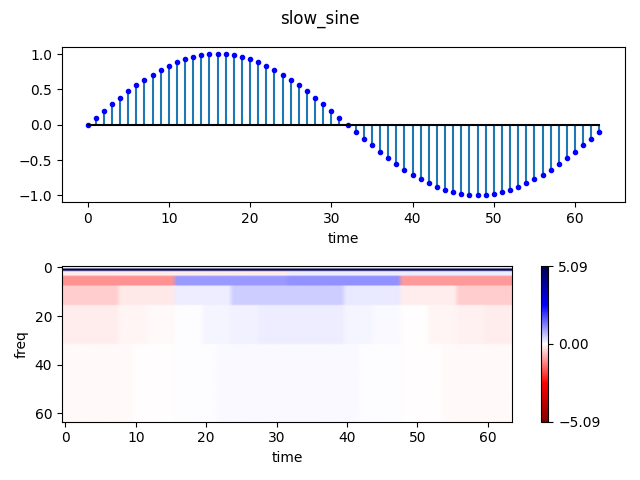
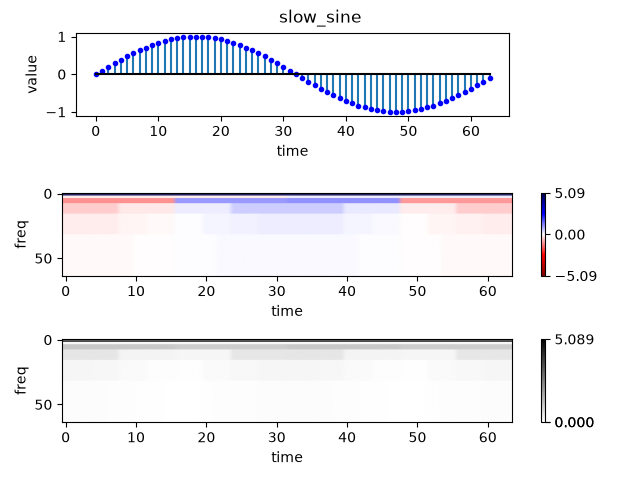
new combined plotting format

diff --git a/scalogram.py b/scalogram.py
@@ -14,6 +14,7 @@ import click
 import pywt
 import os
 import os.path
+from mpl_toolkits.axes_grid1.inset_locator import inset_axes
 
 
 def add_rectangle(a, t1, t2, f1,f2,v):
@@ -85,12 +86,12 @@ def plot_scalogram(ax:plt.Axes, v:list[float], abs_flag:bool)->None:
                    vmin=vmin,
                    vmax=vmax)
     cb = plt.colorbar(im)
+    # cb = plt.colorbar(im, location='bottom')
+    # cb = plt.colorbar(im, location='top')
     cb.set_ticks( [vmin, 0, vmax])
 
     ax.set_xlabel('time')
     ax.set_ylabel('freq')
-    # plt.title('DWT Haar scalogram')
-    # plt.show()
 
 def haar(s: list[float]) -> list[float]:
     """ expects a time sequence s of length n (power of 2)
@@ -102,10 +103,35 @@ def haar(s: list[float]) -> list[float]:
     coeffs = pywt.wavedec(s, 'haar')
     return coeffs
 
+def ax_plot_sequence(ax: plt.Axes, s:list[float])-> None:
+    """
+    plots the given list of numbers 's', on the axis 'ax'
+    :param ax:  axis to plot on
+    :param s:  sequence of numbers
+    :return:
+    """
+    ax.stem(range(len(s)), s, markerfmt="b.", basefmt="k-")
+    ax.set_xlabel("time")
+    ax.set_ylabel("value")
+
+def ax_plot_haar(ax: plt.Axes, s:list[float], abs_flag:bool) -> None:
+    """
+    creates the Haar plot on the given 'ax'
+    :param ax: axis to plot on
+    :param s:  input time sequence
+    :param abs_flag: if true, plot abs(haar)
+    :return:
+    """
+    coeffs = haar(s)
+    dwt_haar = np.concatenate(coeffs).ravel()
+    if abs_flag:
+        dwt_haar = [ abs(x) for x in dwt_haar]
+    plot_scalogram(ax, dwt_haar, abs_flag)
+
 def haar_and_plot(s: list[float],
-                  wave_name: str = "blank",
-                  abs_flag: bool = False,
-                  print_flag: bool =False) ->None:
+                  wave_name: str,
+                  # abs_flag: bool = False,
+                  print_flag: bool ) ->None:
     """
     given a signal (list[float]) s
     plot its scalogram
@@ -115,38 +141,81 @@ def haar_and_plot(s: list[float],
     :param abs_flag:    if true, plot abs values of Haar coefficients
     :return:            nothing - just plots
     """
-    fig, axs = plt.subplots(2, 1)
+    fig, axs = plt.subplots(3, 1)
 
     title=f'{wave_name}'
-    if abs_flag:
-        title = title+" (abs for Haar)"
+    # if abs_flag:
+    #    title = title+" (abs for Haar)"
     fig.suptitle(title)
+
+    # TODO: align the time-plot with the scalogram
+    #       check https://matplotlib.org/stable/gallery/axes_grid1/inset_locator_demo.html
     # plot the time sequence
     ax = axs[0]
-    # ax.plot(s, 'b.')
-    x = range(len(s))
-    # ax.plot(s, 'b-', linewidth=0.1)
-    # ax.bar(x, s, width=0.5)
-    ax.stem(x,s, markerfmt="b.", basefmt="k-")
-    ax.set_xlabel("time")
+    ax.axis('off')
+    axins = inset_axes(ax,
+                       width="77%",
+                       height="100%",
+                       loc="lower left",
+                       borderpad=1)
+    # ax_plot_sequence(ax,s)
+    ax_plot_sequence(axins,s)
 
     # plot the scalogram
-    coeffs = haar(s)
-    dwt_haar = np.concatenate(coeffs).ravel()
-
-    if abs_flag:
-        dwt_haar = [ abs(x) for x in dwt_haar]
     ax = axs[1]
-    plot_scalogram(ax, dwt_haar, abs_flag)
+    ax_plot_haar(ax, s, abs_flag=False)
+
+    ax = axs[2]
+    ax_plot_haar(ax, s, abs_flag=True)
 
     plt.tight_layout()
 
     if print_flag:
-        suffix = "_abs.png" if abs_flag else ".png"
+        # suffix = "_abs.png" if abs_flag else ".png"
+        suffix = ".png"
         png_fname = wave_name + suffix
         plt.savefig(png_fname)
 
     plt.show()
+
+
+def gen_chirp(N:int ) -> list[float]:
+    """
+    generates a chirp function
+    :param N:
+    :return:
+    """
+    # TODO: eliminate the '8' constant, by forcing the frequency @N to be nyquist
+    # chirp= [ math.cos(2* math.pi * i *i * 8 / (N* N) ) for i in range(N)]
+    # chirp= [ math.cos(2* math.pi * i *i     / (math.sqrt(N)* N) ) for i in range(N)]
+    chirp= [ math.sin(2* math.pi * i *i     / (math.sqrt(N)* N) ) for i in range(N)]
+    # chirp= [ math.cos(2* math.pi * i *i     / (2* N) ) for i in range(N)]  # nope...
+    return chirp
+
+def gen_ramp(N:int) -> list[float]:
+    """
+    generates a ramp function (y=t)
+    :param N:
+    :return:
+    """
+    v = [i for i in range(N)]
+    return v
+
+def gen_initial_prolonged_spike(N: int, w:int =1) -> list[float]:
+    """
+    generates a spike: sequence of all zeros, of duration 'N',
+    with a spike in the beginning
+    :param w: width of spike
+    :param N: length of sequence
+    :return:
+    """
+    v = [0 for i in range(N)]
+    # v[0] = 1
+    if w > N/2: # truncate 'w' if too long
+        w = N/2
+    for i in range(w):
+        v[i] = 1
+    return v
 
 def gen_spike(N:int) -> list[float]:
     """
@@ -159,6 +228,7 @@ def gen_spike(N:int) -> list[float]:
     half_point = round(N/2)
     v[half_point] = 1
     return v
+
 
 def gen_prolonged_spike(N:int, s_start:int, s_width:int) -> list[float]:
     prolonged_spike = [0 for i in range(N)]
@@ -185,7 +255,7 @@ def gen_sine(N, f):
     sine_f= [ math.sin(2* math.pi * f *i / N ) for i in range(N)]
     return sine_f
 
-def do_demo(abs_flag: bool, duration: int, print_flag:bool):
+def do_demo(duration: int, print_flag:bool):
     if duration < 4:
         print(f'{duration=} should be >=4 - exiting')
         exit()
@@ -198,23 +268,35 @@ def do_demo(abs_flag: bool, duration: int, print_flag:bool):
     v = list(range(N))
     half = round(N / 2)
 
+    ramp = gen_ramp(N)
+    haar_and_plot(ramp, "ramp", print_flag)
+
     single_spike = gen_spike(N)
-    haar_and_plot(single_spike, "single_spike", abs_flag, print_flag)
+    haar_and_plot(single_spike, "single_spike", print_flag)
 
-    prolonged_spike = gen_prolonged_spike(N, half, math.floor(half/2))
-    haar_and_plot(prolonged_spike, "prolonged_spike-aligned", abs_flag, print_flag)
+    single_initial_spike = gen_initial_prolonged_spike(N)
+    haar_and_plot(single_initial_spike, "single_initial_spike", print_flag)
 
-    prolonged_spike = gen_prolonged_spike(N, half + 1, 10)
-    haar_and_plot(prolonged_spike, "prolonged_spike-non-aligned", abs_flag, print_flag)
+    single_initial_short_spike = gen_initial_prolonged_spike(N, w=2)
+    haar_and_plot(single_initial_short_spike, "single_initial_short_spike", print_flag)
+
+    single_initial_long_spike = gen_initial_prolonged_spike(N, w=4)
+    haar_and_plot(single_initial_long_spike, "single_initial_long_spike", print_flag)
+
+    prolonged_spike = gen_prolonged_spike(N, half, math.floor(half/4))
+    haar_and_plot(prolonged_spike, "prolonged_spike-aligned", print_flag)
+
+    prolonged_spike = gen_prolonged_spike(N, half+1, math.floor(half/4))
+    haar_and_plot(prolonged_spike, "prolonged_spike-non-aligned", print_flag)
 
     large_square_wave = gen_large_square_wave(N)
-    haar_and_plot(large_square_wave, "square_wave", abs_flag, print_flag)
+    haar_and_plot(large_square_wave, "square_wave", print_flag)
     # need to make into functions, the ones below
     flip_flop_square_wave = [0 for i in v]
     for i in range(N):
         if i % 2 == 0:
             flip_flop_square_wave[i] = 1
-    haar_and_plot(flip_flop_square_wave, "flip_flop", abs_flag, print_flag)
+    haar_and_plot(flip_flop_square_wave, "flip_flop", print_flag)
 
     zero_mean_flip_flop_square_wave = [-1 for i in v]
     for i in range(N):
@@ -222,14 +304,17 @@ def do_demo(abs_flag: bool, duration: int, print_flag:bool):
             zero_mean_flip_flop_square_wave[i] = 1
         else:
             zero_mean_flip_flop_square_wave[i] = -1
-    haar_and_plot(zero_mean_flip_flop_square_wave, "zero_mean_flip_flop", abs_flag, print_flag)
+    haar_and_plot(zero_mean_flip_flop_square_wave, "zero_mean_flip_flop", print_flag)
     # large_sine = [ math.sin(2* math.pi * i / N ) for i in v]
 
     slow_sine = gen_sine(N, 1)
-    haar_and_plot(slow_sine, "slow_sine", abs_flag, print_flag)
+    haar_and_plot(slow_sine, "slow_sine", print_flag)
 
     fast_sine = gen_sine(N, 4)
-    haar_and_plot(fast_sine, "fast_sine", abs_flag, print_flag)
+    haar_and_plot(fast_sine, "fast_sine", print_flag)
+
+    chirp = gen_chirp(N)
+    haar_and_plot(chirp, "chirp", print_flag)
 
 def zero_pad(s: list[float]) -> list[float]:
     duration = len(s)
@@ -243,12 +328,11 @@ def zero_pad(s: list[float]) -> list[float]:
     return s_padded
 
 
-def dwt_from_file(fname:str, abs_flag:bool, print_flag:bool) -> None:
+def dwt_from_file(fname:str, print_flag:bool) -> None:
     '''
     reads in the file fname (one number per line - no header)
     and plots the Haar scalogram
     :param fname:       input file name
-    :param abs_flag:    plot abs() values, if true
     :param print_flag:    save to png file if true
     :return:
     '''
@@ -270,13 +354,11 @@ def dwt_from_file(fname:str, abs_flag:bool, print_flag:bool) -> None:
                 count = len(line)
                 assert count == 1, print(f'should be 1 number per line not {count} - exiting')
                 value = line[0]
-
                 try:
                     num = float(value)
                 except: #TypeError
                     print(f'{value=} in {fname=} should be a number - exiting')
                     exit()
-
                 s.append(num)
         duration = len(s)
         if duration < 2:
@@ -285,26 +367,30 @@ def dwt_from_file(fname:str, abs_flag:bool, print_flag:bool) -> None:
         s_padded = zero_pad(s)
         duration_padded = len(s_padded)
         assert is_power_of_two(duration_padded), print(f'{duration_padded=} is not power of 2')
-        haar_and_plot(s_padded, fname, abs_flag, print_flag)
+        signal_name = os.path.basename(fname).removesuffix('.csv')
+        haar_and_plot(s_padded, signal_name, print_flag)
 
 @click.command()
 @click.option('-d', '--duration', default=64, help='length of generated sequence, if no filename given')
-@click.option( '--abs_flag', '-a',  is_flag =True, help='give abs of haar coeff.')
+# @click.option( '--abs_flag', '-a',  is_flag =True, help='give abs of haar coeff.')
 @click.option( '-f', '--file_name', is_flag = False, default=None, help='file to process')
 @click.option( '-v', '--verbose', is_flag = True, help='verbose')
 @click.option( '-p', '--print_flag', is_flag = True, help='print to png')
-def main(duration:int, abs_flag:bool , verbose:bool, file_name:str, print_flag:bool):
+# def main(duration:int, abs_flag:bool , verbose:bool, file_name:str, print_flag:bool):
+def main(duration:int, verbose:bool, file_name:str, print_flag:bool):
     if verbose:
         print(f'{duration=}')
-        print(f'{abs_flag=}')
+        # print(f'{abs_flag=}')
         print(f'{print_flag=}')
         print(f'{file_name=}')
 
     if file_name is None:
         # generating and plotting some demo waves: spike, etc
-        do_demo(abs_flag, duration, print_flag)
+        # do_demo(abs_flag, duration, print_flag)
+        do_demo(duration, print_flag)
     else:
-        dwt_from_file(file_name, abs_flag, print_flag)
+        # dwt_from_file(file_name, abs_flag, print_flag)
+        dwt_from_file(file_name, print_flag)
 
 if __name__ == "__main__":
     main()
